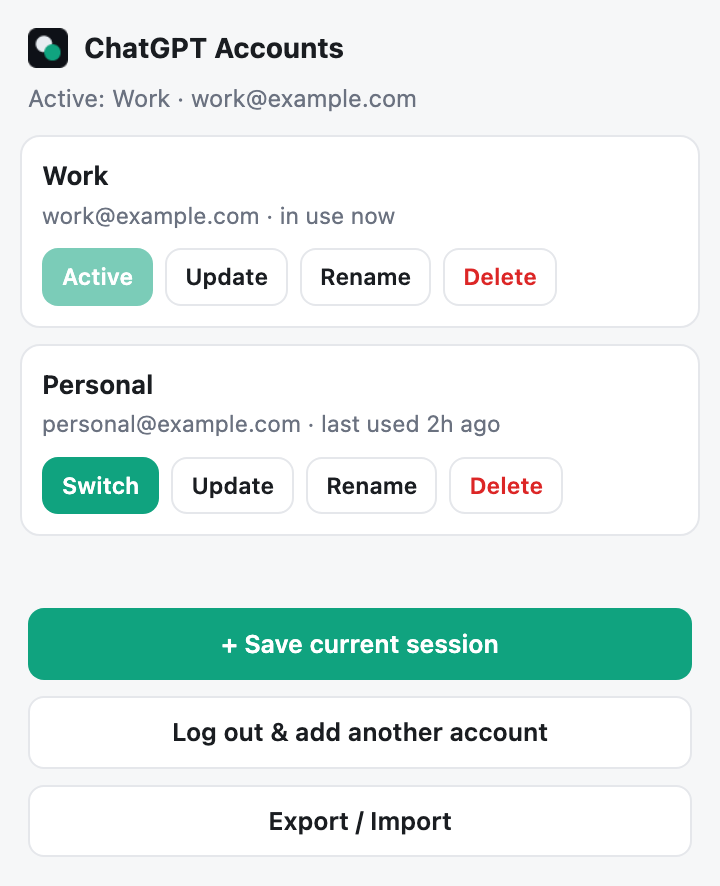
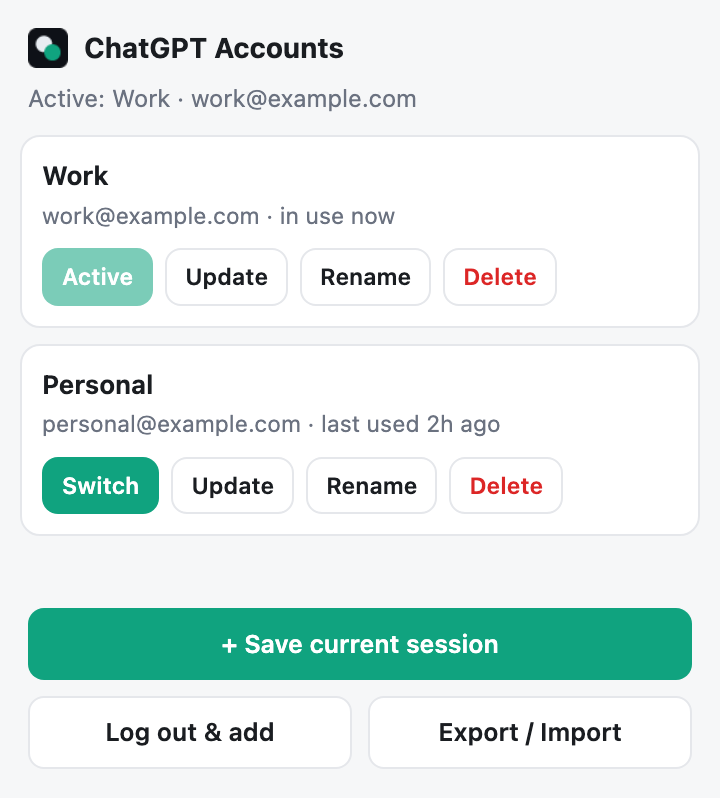
Add search and compact rows for many accounts

diff --git a/extension/popup/popup.js b/extension/popup/popup.js
@@ -5,8 +5,11 @@ const api = globalThis.browser ?? globalThis.chrome;
 const els = {
   activeLine: document.getElementById("activeLine"),
   warning: document.getElementById("warning"),
+  searchWrap: document.getElementById("searchWrap"),
+  searchInput: document.getElementById("searchInput"),
   list: document.getElementById("accountList"),
   empty: document.getElementById("empty"),
+  noResults: document.getElementById("noResults"),
   status: document.getElementById("status"),
   saveForm: document.getElementById("saveForm"),
   nameInput: document.getElementById("nameInput"),
@@ -21,7 +24,22 @@ let state = {
   activeId: null,
   lastSeenEmail: null
 };
+let filter = "";
 let busy = false;
+
+const DENSE_THRESHOLD = 4;
+
+function denseMode() {
+  return state.accounts.length > DENSE_THRESHOLD;
+}
+
+function visibleAccounts() {
+  const query = filter.trim().toLowerCase();
+  if (!query) return state.accounts;
+  return state.accounts.filter((account) =>
+    (account.name + " " + (account.email || "")).toLowerCase().includes(query)
+  );
+}
 
 async function send(message) {
   try {
@@ -141,10 +159,10 @@ function startRename(id, record, nameEl) {
   input.addEventListener("blur", () => finish(true), { once: true });
 }
 
-function renderAccount(record) {
+function renderAccount(record, dense) {
   let armed = false;
   const isActive = record.id === state.activeId;
-  const row = document.createElement("div");
+  const row = document.createElement("li");
   row.className = "account";
 
   const body = document.createElement("div");
@@ -237,26 +255,68 @@ function renderAccount(record) {
     render();
   }, "Delete this saved account. Does not log you out.");
 
-  actions.appendChild(switchBtn);
-  actions.appendChild(updateBtn);
-  actions.appendChild(renameBtn);
-  actions.appendChild(removeBtn);
+  if (dense) {
+    const moreBtn = button("⋯", "small ghost more", () => {
+      const open = row.classList.toggle("expanded");
+      moreBtn.setAttribute("aria-expanded", open ? "true" : "false");
+    }, "More actions");
+    moreBtn.setAttribute("aria-label", "More actions for " + record.name);
+    moreBtn.setAttribute("aria-expanded", "false");
 
-  row.appendChild(body);
-  row.appendChild(actions);
+    const main = document.createElement("div");
+    main.className = "account-main";
+    actions.appendChild(switchBtn);
+    actions.appendChild(moreBtn);
+    main.appendChild(body);
+    main.appendChild(actions);
+
+    const menu = document.createElement("div");
+    menu.className = "account-menu";
+    menu.appendChild(updateBtn);
+    menu.appendChild(renameBtn);
+    menu.appendChild(removeBtn);
+
+    row.appendChild(main);
+    row.appendChild(menu);
+  } else {
+    actions.appendChild(switchBtn);
+    actions.appendChild(updateBtn);
+    actions.appendChild(renameBtn);
+    actions.appendChild(removeBtn);
+
+    row.appendChild(body);
+    row.appendChild(actions);
+  }
   return row;
 }
 
 function render() {
   renderHeader();
 
+  const dense = denseMode();
+  if (!dense && filter) {
+    filter = "";
+    els.searchInput.value = "";
+  }
+
+  els.searchWrap.classList.toggle("hidden", !dense);
+  els.searchInput.placeholder = "Search " + state.accounts.length + " accounts";
+  els.noResults.textContent = filter
+    ? "No accounts match “" + filter.trim() + "”."
+    : "No accounts match your search.";
+  els.noResults.classList.add("hidden");
+
+  const accounts = dense ? visibleAccounts() : state.accounts;
   els.list.textContent = "";
   if (!state.accounts.length) {
     els.empty.classList.remove("hidden");
+  } else if (!accounts.length) {
+    els.empty.classList.add("hidden");
+    els.noResults.classList.remove("hidden");
   } else {
     els.empty.classList.add("hidden");
-    state.accounts.forEach((record) => {
-      els.list.appendChild(renderAccount(record));
+    accounts.forEach((record) => {
+      els.list.appendChild(renderAccount(record, dense));
     });
   }
 }
@@ -333,6 +393,30 @@ els.backupBtn.addEventListener("click", async () => {
     } catch (fallbackErr) {
       setStatus("Could not open the backup page.", "error");
     }
+  }
+});
+
+els.searchInput.addEventListener("input", () => {
+  filter = els.searchInput.value;
+  render();
+});
+
+function collapseAccount(row) {
+  row.classList.remove("expanded");
+  const moreBtn = row.querySelector(".more");
+  if (moreBtn) moreBtn.setAttribute("aria-expanded", "false");
+}
+
+document.addEventListener("click", (event) => {
+  if (!event.target.closest) return;
+  const opened = event.target.closest(".more");
+  if (opened) {
+    document.querySelectorAll(".account.expanded").forEach((row) => {
+      if (!row.contains(opened)) collapseAccount(row);
+    });
+  }
+  if (!event.target.closest(".account")) {
+    document.querySelectorAll(".account.expanded").forEach(collapseAccount);
   }
 });
 

diff --git a/extension/popup/popup.css b/extension/popup/popup.css
@@ -30,7 +30,11 @@
 
 body {
   width: 360px;
+  max-height: 600px;
   margin: 0;
+  display: flex;
+  flex-direction: column;
+  overflow: hidden;
   background: var(--bg);
   color: var(--text);
   font: 13px/1.45 -apple-system, BlinkMacSystemFont, "Segoe UI", Roboto, sans-serif;
@@ -45,6 +49,7 @@ body.busy {
 }
 
 .header {
+  flex: 0 0 auto;
   padding: 14px 14px 10px;
 }
 
@@ -77,10 +82,21 @@ body.busy {
   font-size: 11.5px;
 }
 
+.search-wrap {
+  margin-top: 8px;
+}
+
+.search {
+  padding: 6px 9px;
+  font-size: 12px;
+}
+
 .main {
-  max-height: 380px;
+  flex: 1 1 auto;
+  min-height: 0;
   overflow-y: auto;
   padding: 0 10px;
+  scrollbar-width: thin;
 }
 
 .list {
@@ -99,11 +115,40 @@ body.busy {
   padding: 10px;
 }
 
+.account-main {
+  display: flex;
+  align-items: center;
+  gap: 8px;
+}
+
 .account-body {
   display: flex;
+  flex: 1 1 auto;
   flex-direction: column;
   gap: 2px;
+  min-width: 0;
   margin-bottom: 8px;
+}
+
+.account-main .account-body {
+  margin-bottom: 0;
+}
+
+.account-menu {
+  display: none;
+  flex-wrap: wrap;
+  gap: 6px;
+  margin-top: 9px;
+  padding-top: 9px;
+  border-top: 1px solid var(--border);
+}
+
+.account.expanded .account-menu {
+  display: flex;
+}
+
+.account-menu > .btn {
+  flex: 1;
 }
 
 .account-name {
@@ -128,6 +173,19 @@ body.busy {
   gap: 6px;
 }
 
+.account-main .account-actions {
+  flex: 0 0 auto;
+  flex-wrap: nowrap;
+}
+
+.more {
+  min-width: 30px;
+  padding-left: 8px;
+  padding-right: 8px;
+  font-size: 15px;
+  line-height: 1;
+}
+
 .empty {
   padding: 26px 12px;
   text-align: center;
@@ -136,6 +194,7 @@ body.busy {
 }
 
 .footer {
+  flex: 0 0 auto;
   padding: 12px 14px 14px;
   display: flex;
   flex-direction: column;

diff --git a/extension/popup/popup.html b/extension/popup/popup.html
@@ -13,11 +13,21 @@
     </div>
     <div id="activeLine" class="active-line">No active account</div>
     <p id="warning" class="warning hidden"></p>
+    <div id="searchWrap" class="search-wrap hidden">
+      <input
+        id="searchInput"
+        class="input search"
+        type="search"
+        placeholder="Search accounts"
+        autocomplete="off"
+      />
+    </div>
   </header>
 
   <main class="main">
     <ul id="accountList" class="list"></ul>
     <p id="empty" class="empty">No accounts saved yet.<br />Log in to chatgpt.com, then press “Save current session”.</p>
+    <p id="noResults" class="empty hidden">No accounts match your search.</p>
   </main>
 
   <footer class="footer">
@@ -48,10 +58,7 @@
         id="signOutBtn"
         class="btn ghost"
         title="Clear the browser's ChatGPT session (saved accounts are kept) and open the login page"
-      >Log out &amp; add another account</button>
-    </div>
-
-    <div class="row">
+      >Log out &amp; add</button>
       <button
         id="backupBtn"
         class="btn ghost"

diff --git a/README.md b/README.md
@@ -34,10 +34,13 @@ It runs entirely in your browser: no server, no analytics, no third-party code.
 - **Never lose an unsaved login** — the current session is snapshotted before a
   switch, and the add-on refuses to clear a live session it cannot attribute to
   a saved account.
-- **Add as many accounts as you need** — a built-in *Log out & add another
-  account* button clears the browser session while keeping your snapshots.
+- **Add as many accounts as you need** — a built-in *Log out & add* button
+  clears the browser session while keeping your snapshots.
 - **Last-used history** — accounts are sorted by recent use and show
   `in use now`, `last used 2h ago`, etc.
+- **Scales to long lists** — search by name or email, and when you have more
+  than four accounts the secondary actions move behind a `⋯` menu so the popup
+  stays compact with a single scroll area.
 - **Update, rename, delete** — refresh a snapshot after an auth change, keep
   your own labels, or remove an account without touching the live session.
 - **Export / import** — move accounts between Firefox profiles or keep an
@@ -102,7 +105,7 @@ A signed build will be linked here once the AMO listing is available.
 
 ### Add another account
 
-1. Press **Log out & add another account**.
+1. Press **Log out & add**.
    This clears the browser's ChatGPT cookies but keeps every saved snapshot.
 2. Sign in to ChatGPT with the second account.
 3. Open the popup and press **+ Save current session** again.
@@ -124,6 +127,16 @@ list shows last-used times so you can see which account was used when.
 
 If the browser session is signed in as an account that is not saved yet, the
 add-on stops instead of silently destroying it. Save that session first.
+
+### Many accounts
+
+After you save more than four accounts, the popup adds a search field and moves
+**Update**, **Rename**, and **Delete** behind the `⋯` button on each row. The
+account list scrolls inside the popup instead of making the whole panel taller.
+
+<p align="center">
+  <img src="docs/screenshots/many-accounts.png" width="300" alt="Popup with a search field and compact account rows with a more-actions menu" />
+</p>
 
 ## Export and import
 
